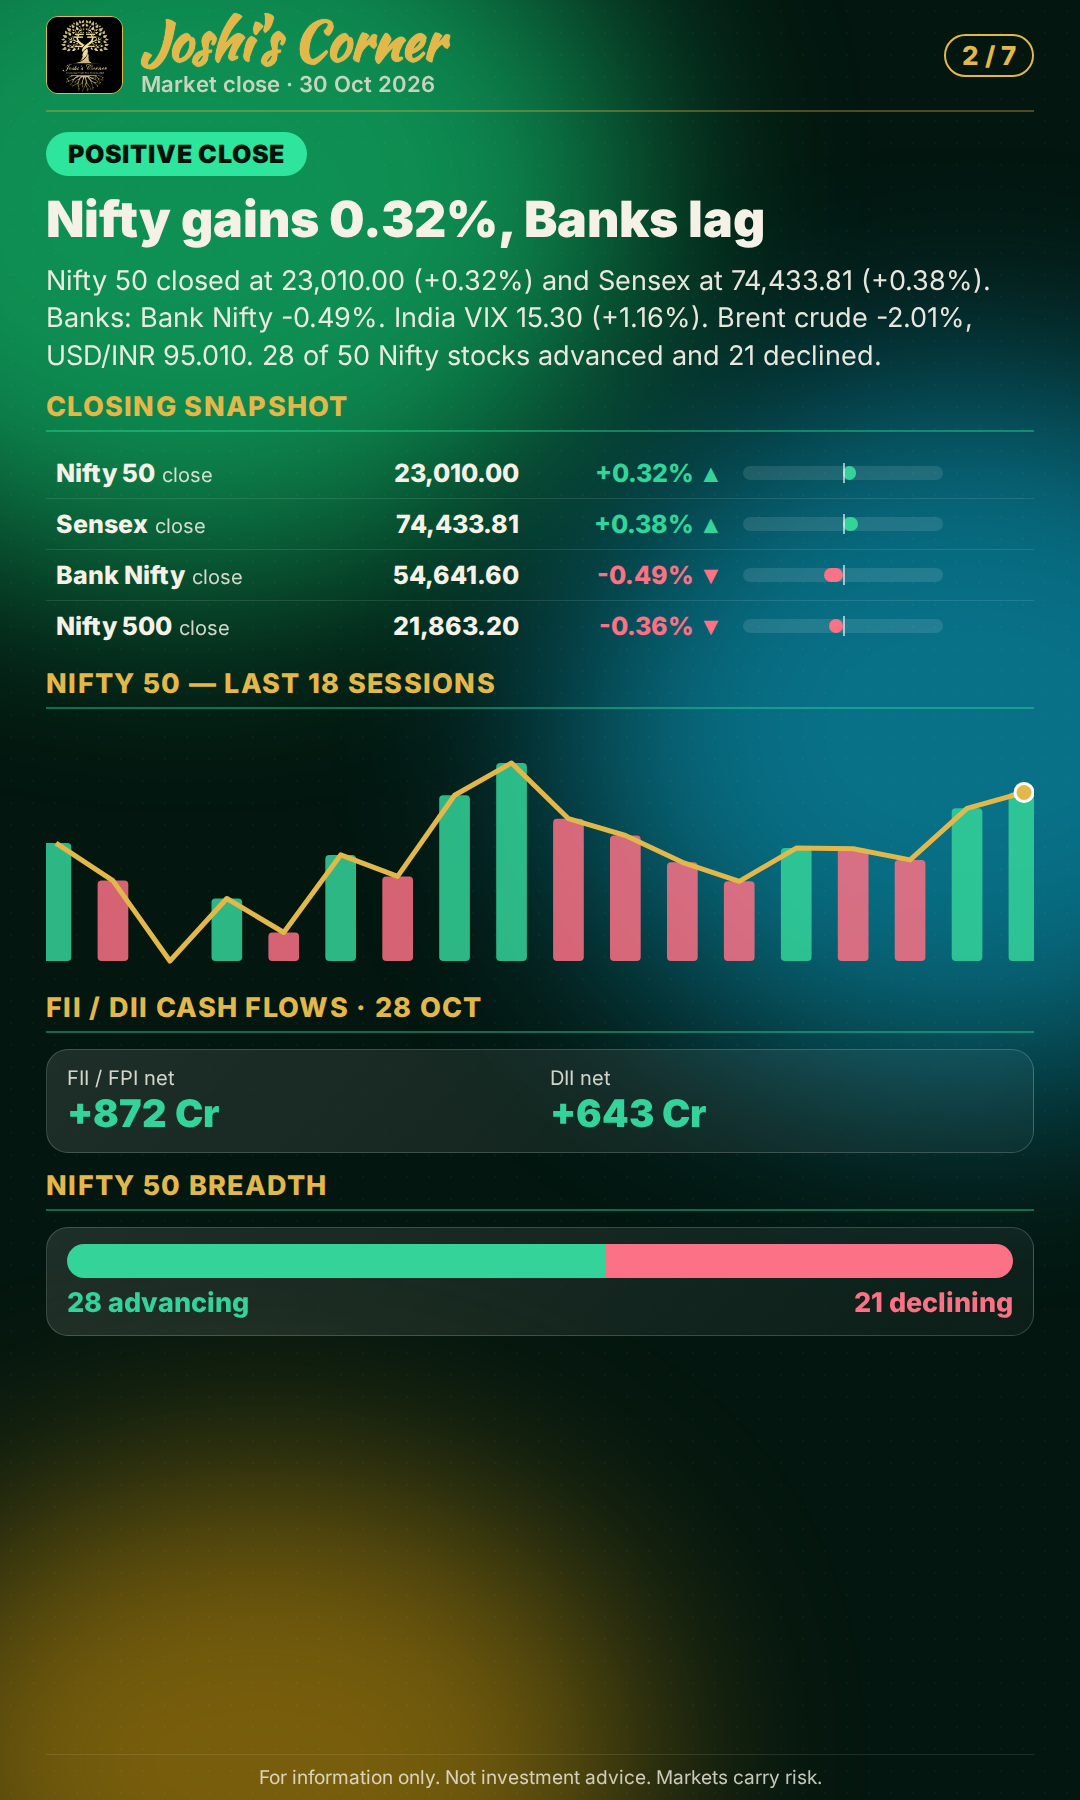
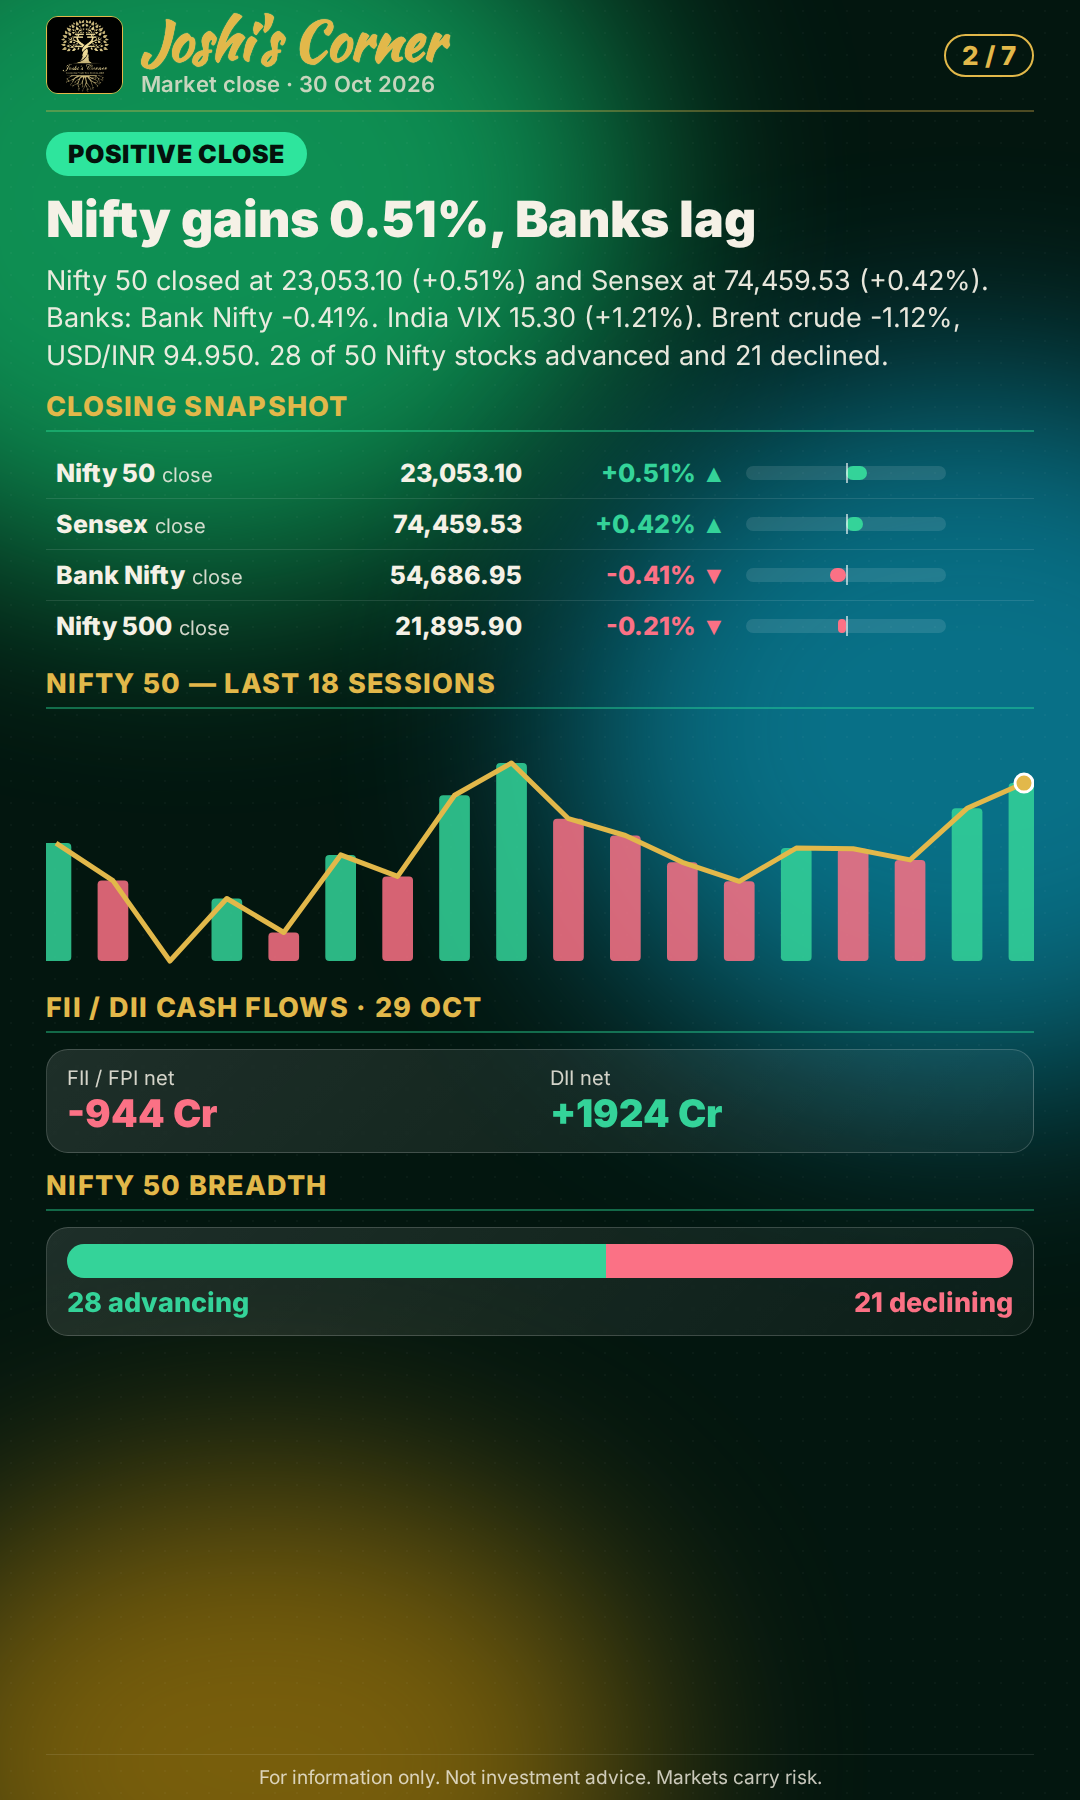
report: evening-breeze 2026-10-30 (ok)

diff --git a/evening/2026-10-30/index.html b/evening/2026-10-30/index.html
@@ -1,9 +1,9 @@
 <!doctype html><html lang="en"><head><meta charset="utf-8">
 <meta name="viewport" content="width=device-width,initial-scale=1,viewport-fit=cover">
 <title>Joshi&#x27;s Corner - Evening Breeze for Friday, 30 October 2026</title>
-<meta name="description" content="Nifty gains 0.32%, Banks lag | What to expect at the open, key levels, an insurance plan of the day and a restaurant offer.">
+<meta name="description" content="Nifty gains 0.51%, Banks lag | What to expect at the open, key levels, an insurance plan of the day and a restaurant offer.">
 <meta property="og:type" content="website"><meta property="og:site_name" content="Joshi's Corner">
-<meta property="og:title" content="Joshi&#x27;s Corner - Evening Breeze for Friday, 30 October 2026"><meta property="og:description" content="Nifty gains 0.32%, Banks lag | What to expect at the open, key levels, an insurance plan of the day and a restaurant offer.">
+<meta property="og:title" content="Joshi&#x27;s Corner - Evening Breeze for Friday, 30 October 2026"><meta property="og:description" content="Nifty gains 0.51%, Banks lag | What to expect at the open, key levels, an insurance plan of the day and a restaurant offer.">
 <meta property="og:url" content="https://ssjs1mu.github.io/jc-stock-analyst/evening/2026-10-30/"><meta property="og:image" content="https://ssjs1mu.github.io/jc-stock-analyst/evening/2026-10-30/og.jpg">
 <meta property="og:image:secure_url" content="https://ssjs1mu.github.io/jc-stock-analyst/evening/2026-10-30/og.jpg"><meta property="og:image:type" content="image/jpeg"><meta property="og:image:alt" content="Joshi&#x27;s Corner - Evening Breeze for Friday, 30 October 2026">
 <meta property="og:image:width" content="1200"><meta property="og:image:height" content="630">
@@ -13,9 +13,9 @@
 html,body{height:100%;background:radial-gradient(120% 90% at 50% 0%,#2a2140 0%,#0d0a18 70%);color:#f4efe0;font-family:Inter,system-ui,Segoe UI,Arial,sans-serif;overflow:hidden}
 .top{position:fixed;left:0;right:0;top:0;height:44px;display:flex;align-items:center;justify-content:center;gap:10px;z-index:50}
 .top .b{font-family:'Brush Script MT','Brush Script Std','JC Script','Kaushan Script',cursive;font-size:30px;font-weight:700;color:#E2B84A;text-shadow:0 0 1px #F6DC8A}
-.stage{position:fixed;left:0;right:0;top:44px;bottom:60px;display:flex;align-items:flex-start;justify-content:center;perspective:2200px}
-@media (max-width:700px){.stage{top:40px;bottom:56px;align-items:center}.book{width:min(100vw,calc((100dvh - 100px)*0.6)) !important;border-radius:0}.leaf,.leaf img,.leaf .shade{border-radius:0}.bar button{padding:10px 14px;white-space:nowrap}.top{height:40px}.top .b{font-size:26px}.bar{height:56px}.hint{display:none}}
-.book{position:relative;width:min(94vw,calc((100vh - 130px)*0.6));width:min(94vw,calc((100dvh - 130px)*0.6));aspect-ratio:1080/1800;filter:drop-shadow(0 18px 38px rgba(0,0,0,.6))}
+.stage{position:fixed;left:0;right:0;top:44px;bottom:92px;display:flex;align-items:flex-start;justify-content:center;perspective:2200px}
+@media (max-width:700px){.stage{top:40px;bottom:88px;align-items:center}.book{width:min(100vw,calc((100dvh - 132px)*0.6)) !important;border-radius:0}.leaf,.leaf img,.leaf .shade{border-radius:0}.bar button{padding:10px 14px;white-space:nowrap}.top{height:40px}.top .b{font-size:26px}.bar{height:56px}.hint{display:none}}
+.book{position:relative;width:min(94vw,calc((100vh - 130px)*0.6));width:min(94vw,calc((100dvh - 160px)*0.6));aspect-ratio:1080/1800;filter:drop-shadow(0 18px 38px rgba(0,0,0,.6))}
 .leaf{position:absolute;inset:0;transform-origin:left center;transition:transform 2.1s cubic-bezier(.37,.02,.2,1);transform-style:preserve-3d;cursor:pointer;border-radius:4px 10px 10px 4px}
 .leaf img{position:absolute;inset:0;width:100%;height:100%;border-radius:4px 10px 10px 4px;backface-visibility:hidden;object-fit:cover;background:#fff}
 .leaf .back{position:absolute;inset:0;transform:rotateY(180deg);backface-visibility:hidden;border-radius:10px 4px 4px 10px;background:linear-gradient(90deg,#d8cfb4,#efe8d4)}
@@ -31,10 +31,14 @@ html,body{height:100%;background:radial-gradient(120% 90% at 50% 0%,#2a2140 0%,#
 .bar button.g{background:#ffffff1f;color:#f4efe0}
 .dots{display:flex;gap:7px;align-items:center}.dots i{width:9px;height:9px;border-radius:50%;background:#ffffff40}.dots i.on{background:#E2B84A}
 .hint{position:fixed;left:0;right:0;top:46px;text-align:center;font-size:13px;opacity:.75;pointer-events:none;transition:opacity .6s}
+.stat{position:fixed;left:0;right:0;bottom:64px;z-index:49;text-align:center;font-size:12.5px;color:#d9d2bd;padding:0 10px;line-height:1.3}
+.stat b{color:#E2B84A}.old{background:#7a1020;color:#fff;border-radius:10px;margin:0 10px 4px;padding:6px 10px;font-size:12.5px;display:none}.old a{color:#ffd36a;font-weight:800}
+@media (max-width:700px){.stat{bottom:56px}}
 </style></head><body>
 <div class="top"><span class="b">Joshi's Corner</span></div>
 <div class="stage"><div class="book" id="book"><div class="spine"></div><div class="leaf"><img src="../../reports/evening-breeze/JCGG_Evening_Breeze_Mobile_2026-10-30_1.png" alt="Page 1" loading="eager"><div class="back"></div><div class="shade"></div></div><div class="leaf"><img src="../../reports/evening-breeze/JCGG_Evening_Breeze_Mobile_2026-10-30_2.png" alt="Page 2" loading="eager"><div class="back"></div><div class="shade"></div></div><div class="leaf"><img src="../../reports/evening-breeze/JCGG_Evening_Breeze_Mobile_2026-10-30_3.png" alt="Page 3" loading="eager"><div class="back"></div><div class="shade"></div></div><div class="leaf"><img src="../../reports/evening-breeze/JCGG_Evening_Breeze_Mobile_2026-10-30_4.png" alt="Page 4" loading="eager"><div class="back"></div><div class="shade"></div></div><div class="leaf"><img src="../../reports/evening-breeze/JCGG_Evening_Breeze_Mobile_2026-10-30_5.png" alt="Page 5" loading="eager"><div class="back"></div><div class="shade"></div></div><div class="leaf"><img src="../../reports/evening-breeze/JCGG_Evening_Breeze_Mobile_2026-10-30_6.png" alt="Page 6" loading="eager"><div class="back"></div><div class="shade"></div></div><div class="leaf"><img src="../../reports/evening-breeze/JCGG_Evening_Breeze_Mobile_2026-10-30_7.png" alt="Page 7" loading="eager"><div class="back"></div><div class="shade"></div></div></div></div>
 <div class="hint" id="hint">Tap the page to turn it</div>
+<div class="stat"><div class="old" id="old"></div><span id="gen">Report generated <b>Fri 30 Oct 2026, 04:29 PM IST</b></span></div>
 <div class="bar"><button class="g" id="prev" aria-label="Previous page">&#8249;</button><div class="dots" id="dots"></div><button id="next" aria-label="Next page">Next page &#8250;</button><button class="g" id="share">Share</button></div>
 <script>
 (function(){var L=[].slice.call(document.querySelectorAll('.leaf')),n=L.length,i=0,D=document.getElementById('dots');
@@ -49,5 +53,14 @@ document.addEventListener('keydown',function(e){if(e.key==='ArrowRight'||e.key==
 var sx=null;document.addEventListener('touchstart',function(e){sx=e.touches[0].clientX},{passive:true});
 document.addEventListener('touchend',function(e){if(sx===null)return;var dx=e.changedTouches[0].clientX-sx;if(Math.abs(dx)>45)go(dx<0?1:-1);sx=null},{passive:true});
 document.getElementById('share').onclick=function(){var d={title:"Joshi's Corner - Evening Breeze for Friday, 30 October 2026",text:"Joshi's Corner - Evening Breeze for Friday, 30 October 2026",url:location.href};if(navigator.share){navigator.share(d).catch(function(){})}else if(navigator.clipboard){navigator.clipboard.writeText(location.href);this.textContent='Link copied'}};
+(function(){var RD='2026-10-30',KIND='evening',ADM='',GEN='Fri 30 Oct 2026, 04:29 PM IST';
+ var n=new Date(Date.now()+19800000),mm=n.getUTCHours()*60+n.getUTCMinutes(),dow=n.getUTCDay(),due=KIND==='evening'?16*60+40:8*60+55;
+ function iso(d){return d.toISOString().slice(0,10)}
+ var e=new Date(n.getTime());if(dow>=1&&dow<=5&&mm>=due){}else{do{e=new Date(e.getTime()-86400000)}while(e.getUTCDay()===0||e.getUTCDay()===6)}
+ var exp=iso(e);if(dow>=1&&dow<=5&&mm>=due)exp=iso(n);
+ var o=document.getElementById('old');
+ if(RD<exp){var msg='This report was last updated <b>'+GEN+'</b> and is older than the latest one. Please inform the admin.';
+  if(ADM){msg+=' <a href="https://wa.me/'+ADM+'?text='+encodeURIComponent('Hi, the '+(KIND==='evening'?'Evening Breeze':'Morning Sunrise')+' report link still shows the report generated '+GEN+'. Please update it.')+'" target="_blank" rel="noopener">Message admin</a>'}
+  msg+=' <span style="opacity:.8">(No report is issued on market holidays.)</span>';o.innerHTML=msg;o.style.display='block'}})();
 z();setTimeout(function(){document.getElementById('hint').style.opacity=0},6000)})();
 </script></body></html>

diff --git a/evening/index.html b/evening/index.html
@@ -1,9 +1,9 @@
 <!doctype html><html lang="en"><head><meta charset="utf-8">
 <meta name="viewport" content="width=device-width,initial-scale=1,viewport-fit=cover">
 <title>Joshi&#x27;s Corner - Evening Breeze for Friday, 30 October 2026</title>
-<meta name="description" content="Nifty gains 0.32%, Banks lag | What to expect at the open, key levels, an insurance plan of the day and a restaurant offer.">
+<meta name="description" content="Nifty gains 0.51%, Banks lag | What to expect at the open, key levels, an insurance plan of the day and a restaurant offer.">
 <meta property="og:type" content="website"><meta property="og:site_name" content="Joshi's Corner">
-<meta property="og:title" content="Joshi&#x27;s Corner - Evening Breeze for Friday, 30 October 2026"><meta property="og:description" content="Nifty gains 0.32%, Banks lag | What to expect at the open, key levels, an insurance plan of the day and a restaurant offer.">
+<meta property="og:title" content="Joshi&#x27;s Corner - Evening Breeze for Friday, 30 October 2026"><meta property="og:description" content="Nifty gains 0.51%, Banks lag | What to expect at the open, key levels, an insurance plan of the day and a restaurant offer.">
 <meta property="og:url" content="https://ssjs1mu.github.io/jc-stock-analyst/evening/"><meta property="og:image" content="https://ssjs1mu.github.io/jc-stock-analyst/evening/og.jpg">
 <meta property="og:image:secure_url" content="https://ssjs1mu.github.io/jc-stock-analyst/evening/og.jpg"><meta property="og:image:type" content="image/jpeg"><meta property="og:image:alt" content="Joshi&#x27;s Corner - Evening Breeze for Friday, 30 October 2026">
 <meta property="og:image:width" content="1200"><meta property="og:image:height" content="630">
@@ -13,9 +13,9 @@
 html,body{height:100%;background:radial-gradient(120% 90% at 50% 0%,#2a2140 0%,#0d0a18 70%);color:#f4efe0;font-family:Inter,system-ui,Segoe UI,Arial,sans-serif;overflow:hidden}
 .top{position:fixed;left:0;right:0;top:0;height:44px;display:flex;align-items:center;justify-content:center;gap:10px;z-index:50}
 .top .b{font-family:'Brush Script MT','Brush Script Std','JC Script','Kaushan Script',cursive;font-size:30px;font-weight:700;color:#E2B84A;text-shadow:0 0 1px #F6DC8A}
-.stage{position:fixed;left:0;right:0;top:44px;bottom:60px;display:flex;align-items:flex-start;justify-content:center;perspective:2200px}
-@media (max-width:700px){.stage{top:40px;bottom:56px;align-items:center}.book{width:min(100vw,calc((100dvh - 100px)*0.6)) !important;border-radius:0}.leaf,.leaf img,.leaf .shade{border-radius:0}.bar button{padding:10px 14px;white-space:nowrap}.top{height:40px}.top .b{font-size:26px}.bar{height:56px}.hint{display:none}}
-.book{position:relative;width:min(94vw,calc((100vh - 130px)*0.6));width:min(94vw,calc((100dvh - 130px)*0.6));aspect-ratio:1080/1800;filter:drop-shadow(0 18px 38px rgba(0,0,0,.6))}
+.stage{position:fixed;left:0;right:0;top:44px;bottom:92px;display:flex;align-items:flex-start;justify-content:center;perspective:2200px}
+@media (max-width:700px){.stage{top:40px;bottom:88px;align-items:center}.book{width:min(100vw,calc((100dvh - 132px)*0.6)) !important;border-radius:0}.leaf,.leaf img,.leaf .shade{border-radius:0}.bar button{padding:10px 14px;white-space:nowrap}.top{height:40px}.top .b{font-size:26px}.bar{height:56px}.hint{display:none}}
+.book{position:relative;width:min(94vw,calc((100vh - 130px)*0.6));width:min(94vw,calc((100dvh - 160px)*0.6));aspect-ratio:1080/1800;filter:drop-shadow(0 18px 38px rgba(0,0,0,.6))}
 .leaf{position:absolute;inset:0;transform-origin:left center;transition:transform 2.1s cubic-bezier(.37,.02,.2,1);transform-style:preserve-3d;cursor:pointer;border-radius:4px 10px 10px 4px}
 .leaf img{position:absolute;inset:0;width:100%;height:100%;border-radius:4px 10px 10px 4px;backface-visibility:hidden;object-fit:cover;background:#fff}
 .leaf .back{position:absolute;inset:0;transform:rotateY(180deg);backface-visibility:hidden;border-radius:10px 4px 4px 10px;background:linear-gradient(90deg,#d8cfb4,#efe8d4)}
@@ -31,10 +31,14 @@ html,body{height:100%;background:radial-gradient(120% 90% at 50% 0%,#2a2140 0%,#
 .bar button.g{background:#ffffff1f;color:#f4efe0}
 .dots{display:flex;gap:7px;align-items:center}.dots i{width:9px;height:9px;border-radius:50%;background:#ffffff40}.dots i.on{background:#E2B84A}
 .hint{position:fixed;left:0;right:0;top:46px;text-align:center;font-size:13px;opacity:.75;pointer-events:none;transition:opacity .6s}
+.stat{position:fixed;left:0;right:0;bottom:64px;z-index:49;text-align:center;font-size:12.5px;color:#d9d2bd;padding:0 10px;line-height:1.3}
+.stat b{color:#E2B84A}.old{background:#7a1020;color:#fff;border-radius:10px;margin:0 10px 4px;padding:6px 10px;font-size:12.5px;display:none}.old a{color:#ffd36a;font-weight:800}
+@media (max-width:700px){.stat{bottom:56px}}
 </style></head><body>
 <div class="top"><span class="b">Joshi's Corner</span></div>
 <div class="stage"><div class="book" id="book"><div class="spine"></div><div class="leaf"><img src="../reports/evening-breeze/JCGG_Evening_Breeze_Mobile_2026-10-30_1.png" alt="Page 1" loading="eager"><div class="back"></div><div class="shade"></div></div><div class="leaf"><img src="../reports/evening-breeze/JCGG_Evening_Breeze_Mobile_2026-10-30_2.png" alt="Page 2" loading="eager"><div class="back"></div><div class="shade"></div></div><div class="leaf"><img src="../reports/evening-breeze/JCGG_Evening_Breeze_Mobile_2026-10-30_3.png" alt="Page 3" loading="eager"><div class="back"></div><div class="shade"></div></div><div class="leaf"><img src="../reports/evening-breeze/JCGG_Evening_Breeze_Mobile_2026-10-30_4.png" alt="Page 4" loading="eager"><div class="back"></div><div class="shade"></div></div><div class="leaf"><img src="../reports/evening-breeze/JCGG_Evening_Breeze_Mobile_2026-10-30_5.png" alt="Page 5" loading="eager"><div class="back"></div><div class="shade"></div></div><div class="leaf"><img src="../reports/evening-breeze/JCGG_Evening_Breeze_Mobile_2026-10-30_6.png" alt="Page 6" loading="eager"><div class="back"></div><div class="shade"></div></div><div class="leaf"><img src="../reports/evening-breeze/JCGG_Evening_Breeze_Mobile_2026-10-30_7.png" alt="Page 7" loading="eager"><div class="back"></div><div class="shade"></div></div></div></div>
 <div class="hint" id="hint">Tap the page to turn it</div>
+<div class="stat"><div class="old" id="old"></div><span id="gen">Report generated <b>Fri 30 Oct 2026, 04:29 PM IST</b></span></div>
 <div class="bar"><button class="g" id="prev" aria-label="Previous page">&#8249;</button><div class="dots" id="dots"></div><button id="next" aria-label="Next page">Next page &#8250;</button><button class="g" id="share">Share</button></div>
 <script>
 (function(){var L=[].slice.call(document.querySelectorAll('.leaf')),n=L.length,i=0,D=document.getElementById('dots');
@@ -49,5 +53,14 @@ document.addEventListener('keydown',function(e){if(e.key==='ArrowRight'||e.key==
 var sx=null;document.addEventListener('touchstart',function(e){sx=e.touches[0].clientX},{passive:true});
 document.addEventListener('touchend',function(e){if(sx===null)return;var dx=e.changedTouches[0].clientX-sx;if(Math.abs(dx)>45)go(dx<0?1:-1);sx=null},{passive:true});
 document.getElementById('share').onclick=function(){var d={title:"Joshi's Corner - Evening Breeze for Friday, 30 October 2026",text:"Joshi's Corner - Evening Breeze for Friday, 30 October 2026",url:location.href};if(navigator.share){navigator.share(d).catch(function(){})}else if(navigator.clipboard){navigator.clipboard.writeText(location.href);this.textContent='Link copied'}};
+(function(){var RD='2026-10-30',KIND='evening',ADM='',GEN='Fri 30 Oct 2026, 04:29 PM IST';
+ var n=new Date(Date.now()+19800000),mm=n.getUTCHours()*60+n.getUTCMinutes(),dow=n.getUTCDay(),due=KIND==='evening'?16*60+40:8*60+55;
+ function iso(d){return d.toISOString().slice(0,10)}
+ var e=new Date(n.getTime());if(dow>=1&&dow<=5&&mm>=due){}else{do{e=new Date(e.getTime()-86400000)}while(e.getUTCDay()===0||e.getUTCDay()===6)}
+ var exp=iso(e);if(dow>=1&&dow<=5&&mm>=due)exp=iso(n);
+ var o=document.getElementById('old');
+ if(RD<exp){var msg='This report was last updated <b>'+GEN+'</b> and is older than the latest one. Please inform the admin.';
+  if(ADM){msg+=' <a href="https://wa.me/'+ADM+'?text='+encodeURIComponent('Hi, the '+(KIND==='evening'?'Evening Breeze':'Morning Sunrise')+' report link still shows the report generated '+GEN+'. Please update it.')+'" target="_blank" rel="noopener">Message admin</a>'}
+  msg+=' <span style="opacity:.8">(No report is issued on market holidays.)</span>';o.innerHTML=msg;o.style.display='block'}})();
 z();setTimeout(function(){document.getElementById('hint').style.opacity=0},6000)})();
 </script></body></html>
